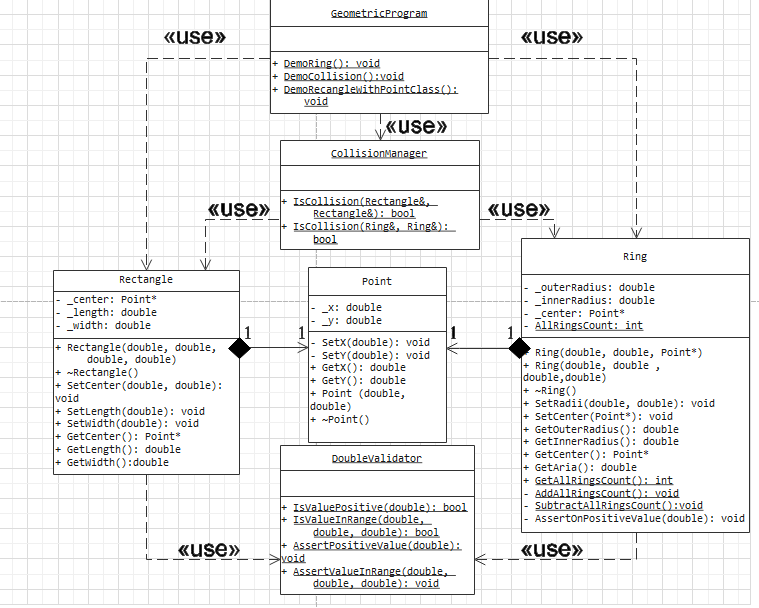
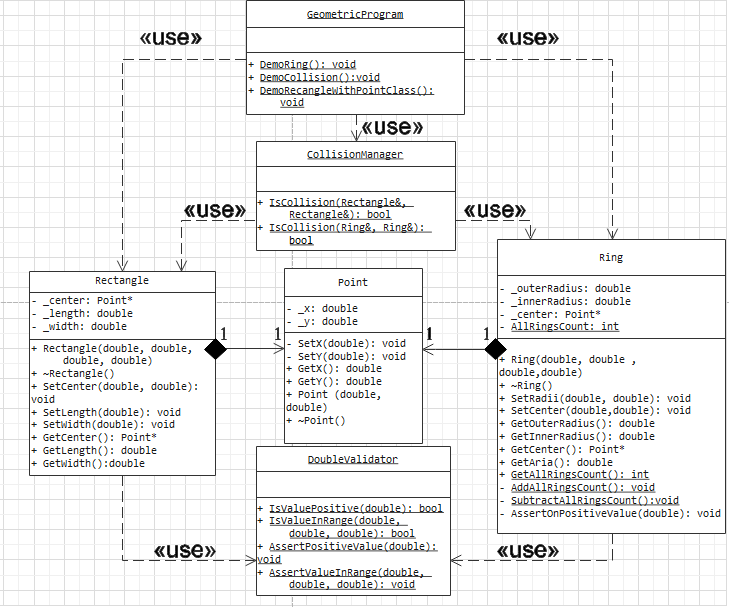
fix(Lab4):  испарвление TODO

Changed region(s): [[0.0, 0.0, 1.0, 1.0], [0.0302, 0.3558, 0.0604, 0.3855]]

diff --git a/Labs/Lab4/Ring.h b/Labs/Lab4/Ring.h
@@ -14,13 +14,12 @@ class Ring
 		static void SubtractAllRingsCount();
 		void AssertOnPositiveValue(double value);
 	public:
-		Ring(double outerRadius, double innerRadius, Point* center);
 		Ring(double outerRadius, double innerRadius, double x,
 			double y);
 		~Ring();
 
 		void SetRadius(double outerRadius, double innerRadius);
-		void SetCenter(Point* center);
+		void SetCenter(double x, double y);
 
 		static int GetAllRingsCount();
 		double GetOuterRadius();
